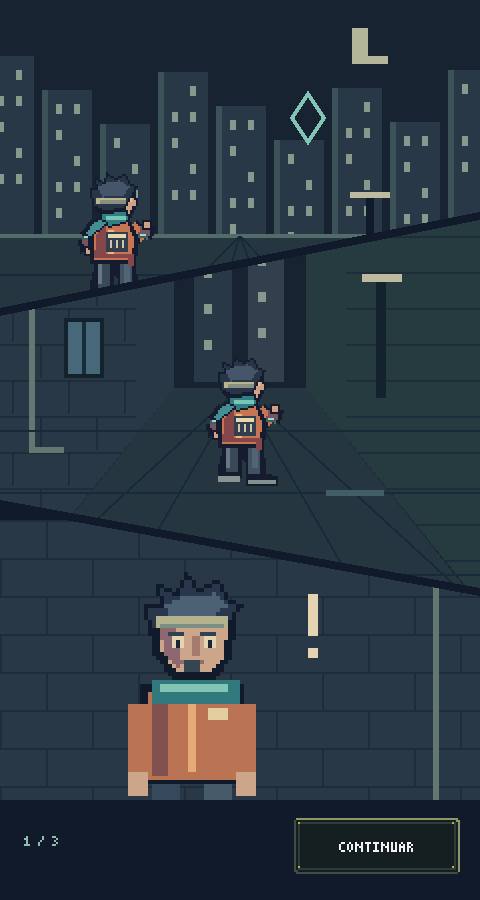
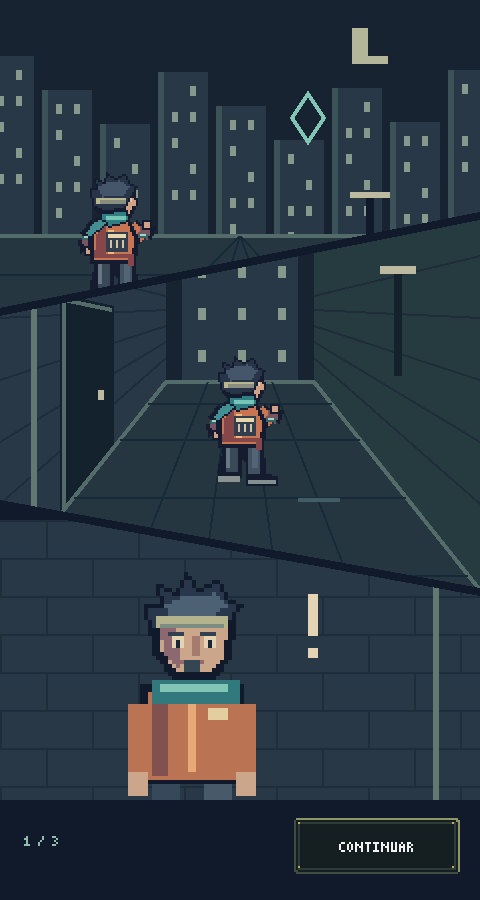
Refine alley, stage confrontation in bar and fade into combat

diff --git a/README.md b/README.md
@@ -196,8 +196,8 @@ Todos se dibujan en un solo trazo. Los nuevos lanzamientos reutilizan las seis f
 La apertura sigue tres páginas y ocho viñetas, de arriba hacia abajo:
 
 1. Llegada a la ciudad, paso por el callejón y sorpresa del aprendiz.
-2. Dos policías junto al civil muerto, descubrimiento del testigo y preparación del aprendiz para combatir.
-3. Un policía lanza magia maldita; el aprendiz impacta contra el muro y se desploma.
+2. Dos policías junto al civil muerto dentro de un bar, descubrimiento del testigo y preparación del aprendiz para combatir.
+3. Un policía lanza magia maldita en el bar; el aprendiz impacta contra el muro y se desploma.
 
 La dirección visual comparte la cuadrícula de 240 píxeles, los colores planos y las proporciones del menú. Se reutilizan el sprite del aprendiz y la cabeza de la celda. Fondos, policías y movimientos se dibujan directamente en Godot con rectángulos, polígonos y líneas sin suavizado; no se usan ilustraciones detalladas ni imágenes generadas en la introducción.
 
@@ -210,3 +210,7 @@ Cada viñeta aparece mediante un fundido de 0,8 segundos, con 3 segundos entre c
 Prueba adicional: `godot --headless --path . --script res://tests/intro.gd` (sustituye `godot` por la ruta de tu ejecutable Godot 4.7). Se revisaron capturas de las tres páginas y de la transición final con OpenGL; queda pendiente validar en Android físico.
 
 [Primera página](docs/intro1.png) · [Segunda página](docs/intro2.png) · [Tercera página](docs/intro3.png).
+
+El callejón comparte un único punto de fuga entre las paredes, los bordes y las juntas del suelo. Las escenas de los policías y el enfrentamiento muestran un bar con estanterías de botellas, barra y taburetes, manteniendo el pixel art sencillo.
+
+Al pulsar **INICIAR** desde el menú o la última página del tutorial, `scripts/combat_transition.gd` aplica el mismo fundido de 0,5 segundos por tramo que las viñetas. La partida se crea con la pantalla opaca y los ataques y el dibujo quedan bloqueados hasta completar la entrada. Las pulsaciones repetidas no reinician la transición. Las pruebas de introducción también verifican este flujo.
